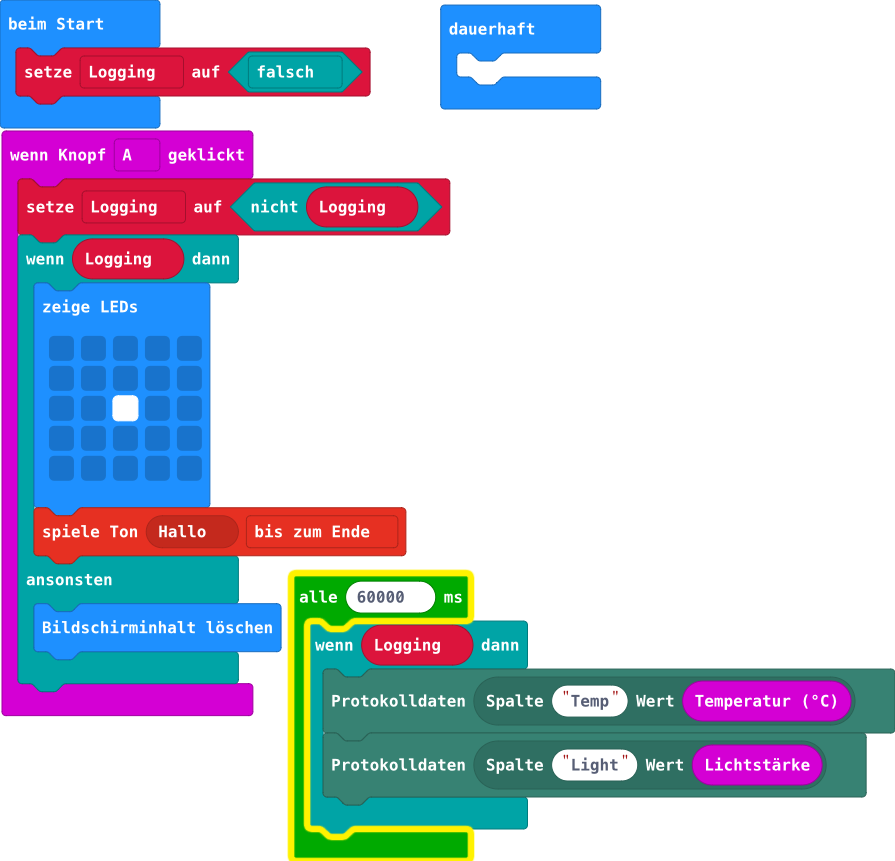
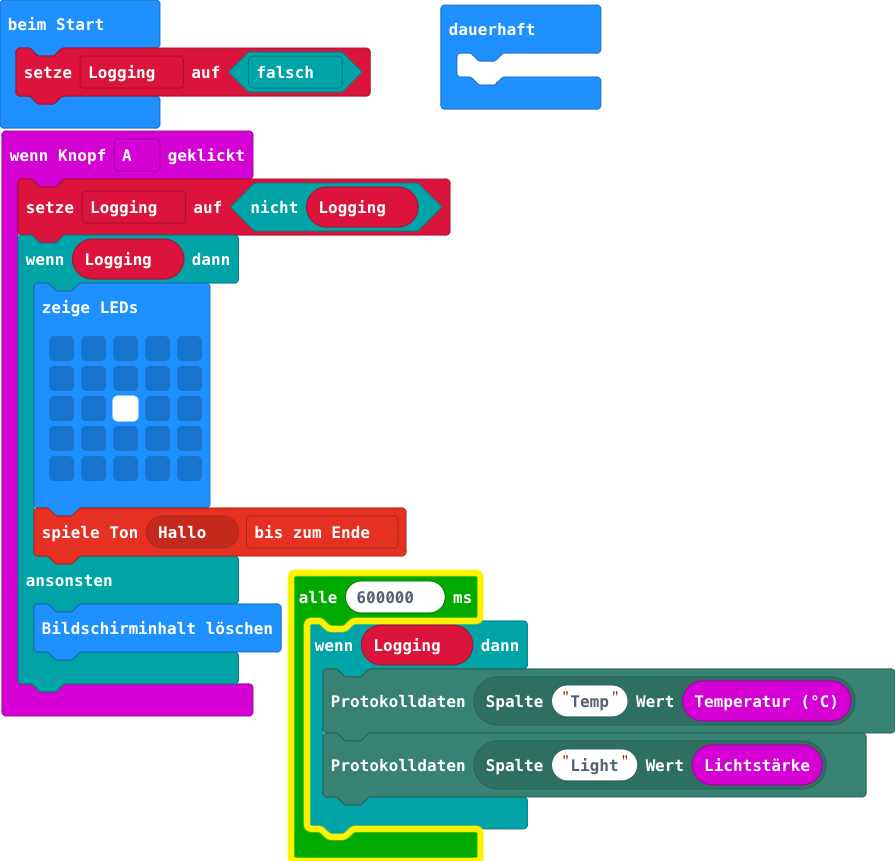
10min messen

diff --git a/main.ts b/main.ts
@@ -15,7 +15,7 @@ input.onButtonPressed(Button.A, function () {
 })
 let Logging = false
 Logging = false
-loops.everyInterval(60000, function () {
+loops.everyInterval(600000, function () {
     if (Logging) {
         datalogger.log(datalogger.createCV("Temp", input.temperature()))
         datalogger.log(datalogger.createCV("Light", input.lightLevel()))
